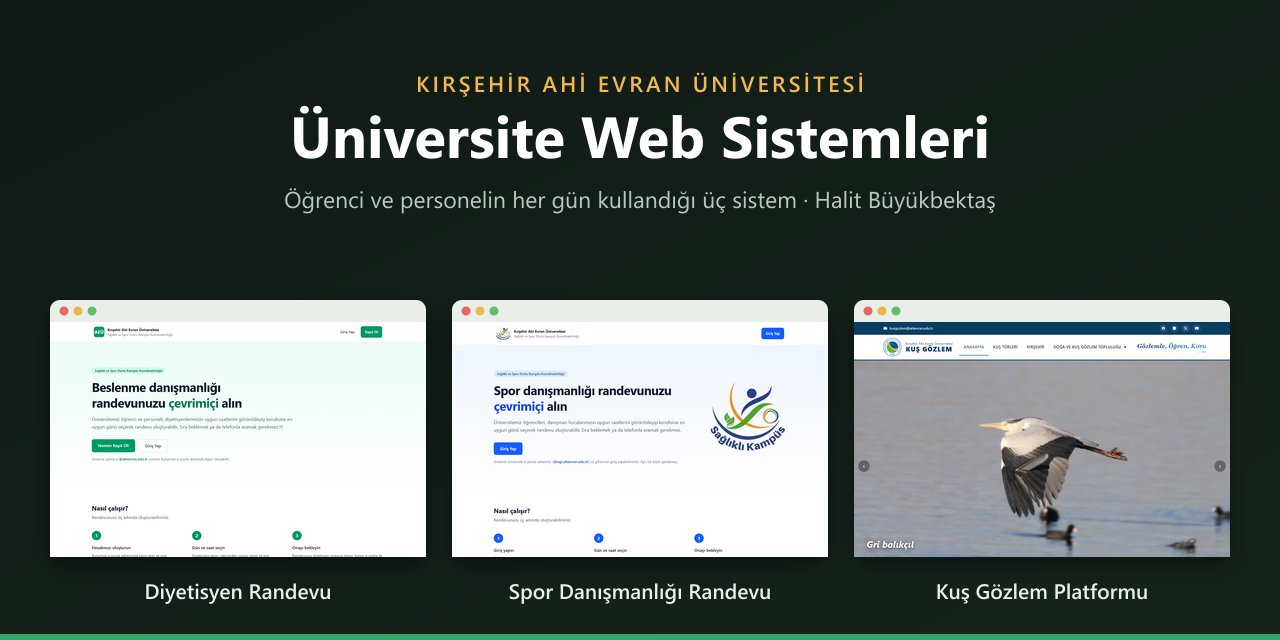
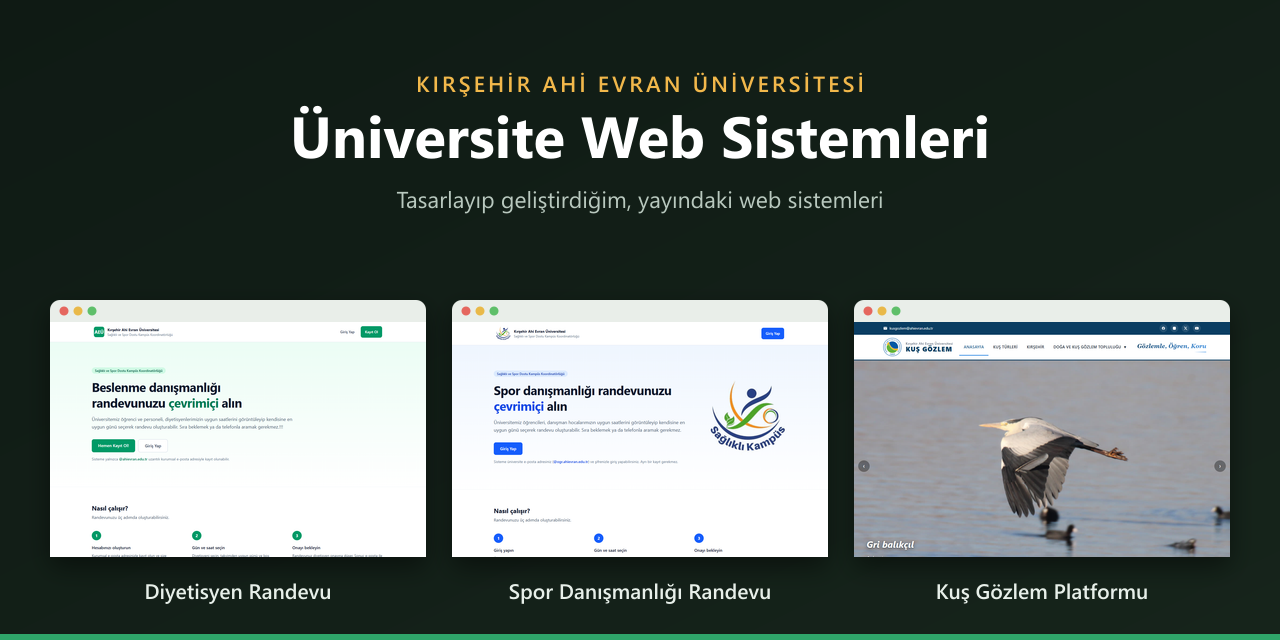
Tanıtım metni sadeleştirildi

Changed region(s): [[0.2188, 0.2812, 0.7812, 0.3438]]

diff --git a/README.md b/README.md
@@ -5,7 +5,7 @@
 <h1 align="center">Üniversite Web Sistemleri</h1>
 
 <p align="center">
-  Kırşehir Ahi Evran Üniversitesi için tasarlayıp geliştirdiğim, üniversite sunucularında yayında olan üç web sistemi.
+  Kırşehir Ahi Evran Üniversitesi için tasarlayıp geliştirdiğim, üniversite sunucularında yayında olan web sistemleri.
 </p>
 
 <p align="center">
